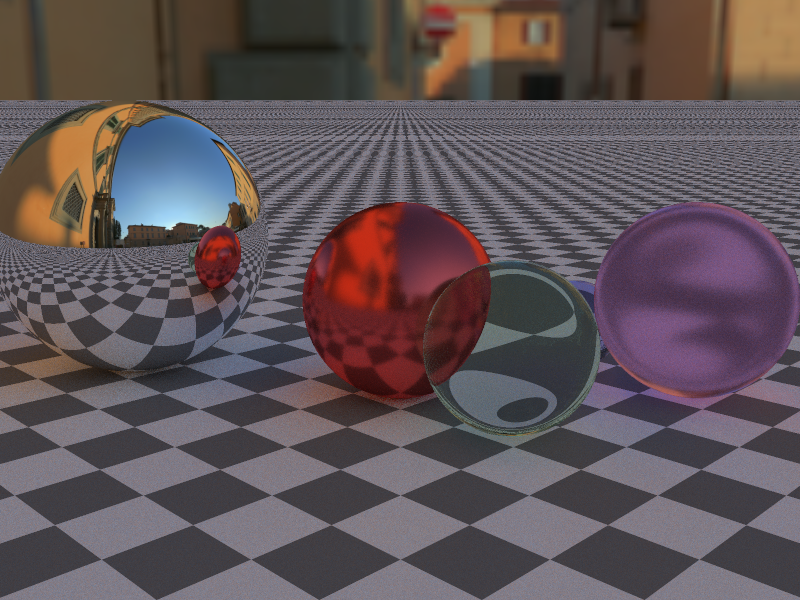
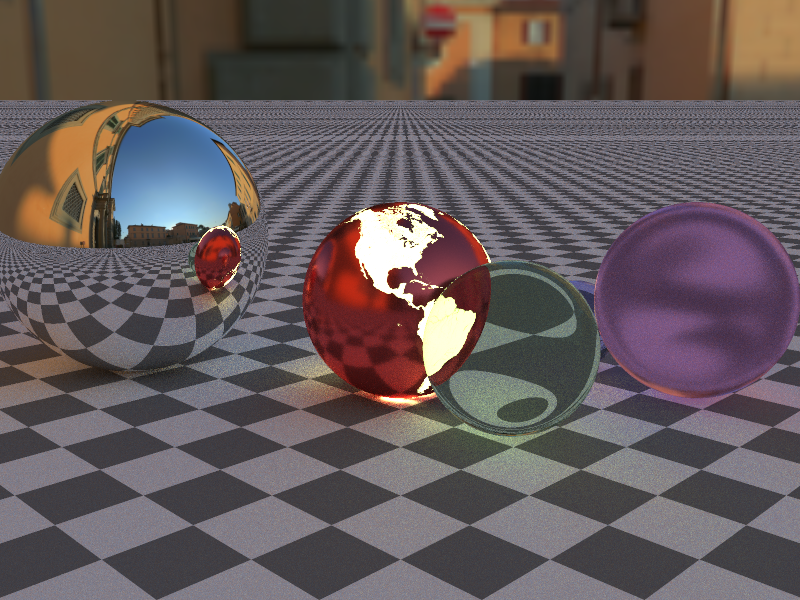
Sphere UV (5.966 sec. => total 6.404 sec.)

diff --git a/src/scene.rs b/src/scene.rs
@@ -58,6 +58,12 @@ impl Intersectable for Sphere {
             intersection.position = ray.origin + ray.direction * t;
             intersection.distance = t;
             intersection.normal = (intersection.position - self.center).normalize();
+
+            intersection.uv.y = intersection.normal.y.acos() / consts::PI;
+            intersection.uv.x = 0.5
+                - intersection.normal.z.signum()
+                * (intersection.normal.x / Vector2::new(intersection.normal.x, intersection.normal.z).length()).acos()
+                / consts::PI2;
             true
         } else {
             false

diff --git a/src/main.rs b/src/main.rs
@@ -39,7 +39,7 @@ fn render() {
             Box::new(Sphere{ center: Vector3::new(0.0, 1.0, 0.0), radius: 1.0, material: Material {
                 surface: SurfaceType::GGX { roughness: 0.2 },
                 albedo: Texture::from_color(Color::new(1.0, 0.1, 0.1)),
-                emission: Texture::black(),
+                emission: Texture::new("textures/2d/earth_inverse_2048.jpg", Color::new(3.0, 3.0, 1.1)),
             }}),
             Box::new(Sphere{ center: Vector3::new(2.0, 0.5, -1.0), radius: 0.5, material: Material {
                 surface: SurfaceType::Refraction { refractive_index: 1.5 },

diff --git a/src/consts.rs b/src/consts.rs
@@ -1,5 +1,7 @@
-pub const PI: f64 = 3.14159265359;
-pub const PI2: f64 = 6.28318530718;
+use std::f64;
+
+pub const PI: f64 = f64::consts::PI;
+pub const PI2: f64 = 2.0 * PI;
 
 pub const EPS: f64 = 1e-4;
 pub const OFFSET: f64 = 1e-2;
